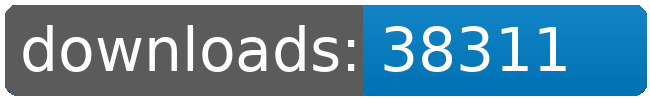
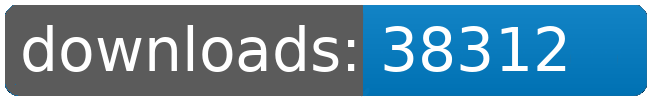
dl log written

Changed region(s): [[0.8, 0.24, 0.8923, 0.66], [0.8, 0.66, 0.8308, 0.69]]

diff --git a/README.md b/README.md
@@ -76,8 +76,8 @@
 		<td>5099</td>
 		<td>5123</td>
 		<td>5142</td>
-		<td>5158</td>
-		<td>+ 16</td>
+		<td>5159</td>
+		<td>+ 17</td>
 	</tr>
 	<tr>
 		<td>Solar.Sails</td>
@@ -109,8 +109,8 @@
 		<td></td>
 		<td></td>
 		<td></td>
-		<td>38311</td>
-		<td>134</td>
+		<td>38312</td>
+		<td>135</td>
 	</tr>
 </table>
 </sub></sup>
@@ -146,8 +146,8 @@
 		<td>5099</td>
 		<td>5123</td>
 		<td>5142</td>
-		<td>5158</td>
-		<td>+ 16</td>
+		<td>5159</td>
+		<td>+ 17</td>
 	</tr>
 	<tr>
 		<td>Korunak.Defense.Drones</td>
@@ -223,8 +223,8 @@
 		<td></td>
 		<td></td>
 		<td></td>
-		<td>38311</td>
-		<td>134</td>
+		<td>38312</td>
+		<td>135</td>
 	</tr>
 </table>
 </sub></sup>
